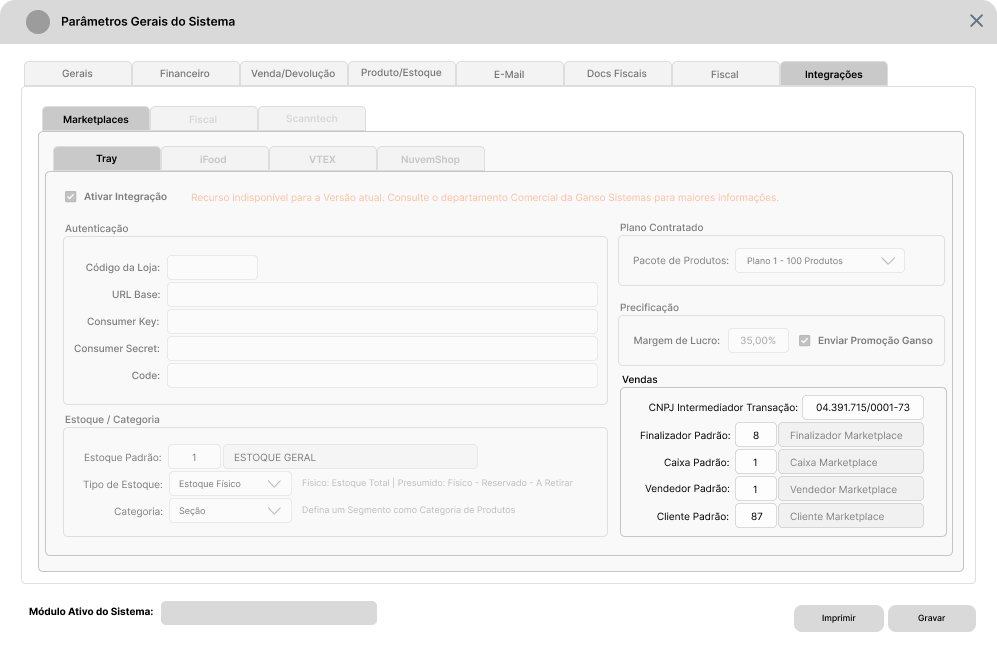
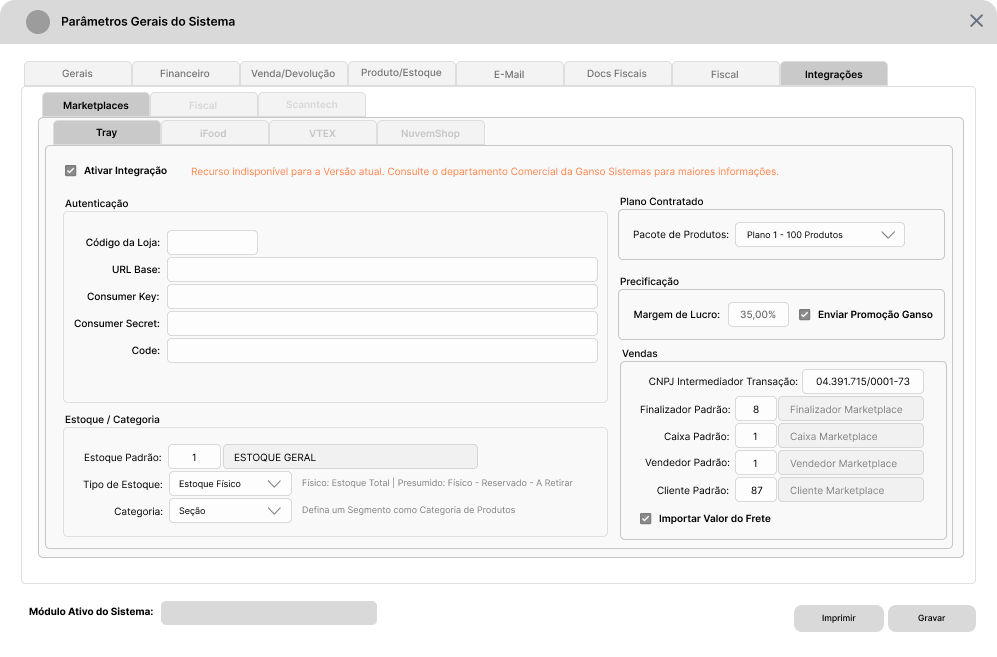
Sincronização com Bitbucket

diff --git a/Vendas.md b/Vendas.md
@@ -5,9 +5,9 @@ O presente documento é complementar à documentação de [Requisitos Iniciais](
 # Roadmap
 
 1. Implementar [parâmetros](#parâmetros) de controle relacionados à Venda.
-2. Implementar alterações na [Tela de Venda Retaguarda](#venda-retaguarda) para comportar campos de controle e identificação de Vendas realizadas na Plataforma do Marketplace.
+2. Implementar alterações na [Tela de Venda Retaguarda](#venda-retaguarda) e [Tela de Pesquisa Avançada de DAV](#consulta-de-vendas-do-marketplace) para comportar campos de controle e identificação de Vendas realizadas na Plataforma do Marketplace.
 3. Implementar alterações em [Documentos Fiscais (DF-e)](#documentos-fiscais-df-e) para adequar a emissão da NF-e e inclusão na Plataforma.
-4. Implementar alterações em [Relatórios Gerenciais](#relatórios) para incluir novos filtros para Marketplaces.
+4. Implementar alterações em [Relatórios Gerenciais](#relatórios-gerenciais) para incluir novos filtros para Marketplaces.
 
 # Siglas Utilizadas
 
@@ -19,23 +19,24 @@ O presente documento é complementar à documentação de [Requisitos Iniciais](
 
 # Parâmetros
 
-Para controle dos processos de Venda, foram levantados novos parâmetros conforme descritivo abaixo.
+Para controle dos processos de Venda, foram levantados novos parâmetros conforme descritivo abaixo. Estes parâmetros são específicos para o Integrador Tray, e devem ser incluídos na Aba **Integrações/Marketplaces**.
 
-| Elemento | Nome                            | Posição                       | Descritivo                                                                                          | Regras de Negócio                                                                                                              |
-| :------- | :------------------------------ | :---------------------------- | :-------------------------------------------------------------------------------------------------- | :----------------------------------------------------------------------------------------------------------------------------- |
-| Campo    | CNPJ Intermediador da Transação | Integrações/Marketplaces/Tray | Campo para definir o CNPJ do Intermediador/Marketplace responsável por processar a Venda.           | **Obrigatório** para emissão da NF-e conforme [NT2020.006](https://microsig.my.site.com/a0e4w00000KEmlf?btdid=a0g4w00000JDgsH) |
-| Campo    | Finalizador Padrão              | Integrações/Marketplaces/Tray | Campo para definir o Código do Finalizador Padrão para as Vendas realizadas no Marketplace          | **Obrigatório**. Permitir informar apenas Finalizador comum.                                                                   |
-| Campo    | Caixa Padrão                    | Integrações/Marketplaces/Tray | Campo para definir o Código do Caixa Padrão para as Vendas realizadas no Marketplace                | **Obrigatório**                                                                                                                |
-| Campo    | Vendedor Padrão                 | Integrações/Marketplaces/Tray | Campo para definir o Código do Colaborador/Vendedor Padrão para as Vendas realizadas no Marketplace | **Obrigatório**                                                                                                                |
-| Campo    | Cliente Padrão                  | Integrações/Marketplaces/Tray | Campo para definir o Código do Cliente Padrão para as Vendas realizadas no Marketplace              | **Obrigatório**                                                                                                                |
+| Elemento  | Nome                            | Posição                              | Descritivo                                                                                          | Regras de Negócio                                                                                                              |
+| :-------- | :------------------------------ | :----------------------------------- | :-------------------------------------------------------------------------------------------------- | :----------------------------------------------------------------------------------------------------------------------------- |
+| Campo     | CNPJ Intermediador da Transação | Integrações/Marketplaces/Tray/Vendas | Campo para definir o CNPJ do Intermediador/Marketplace responsável por processar a Venda.           | **Obrigatório** para emissão da NF-e conforme [NT2020.006](https://microsig.my.site.com/a0e4w00000KEmlf?btdid=a0g4w00000JDgsH) |
+| Campo     | Finalizador Padrão              | Integrações/Marketplaces/Tray/Vendas | Campo para definir o Código do Finalizador Padrão para as Vendas realizadas no Marketplace          | **Obrigatório**. Permitir informar apenas Finalizador comum.                                                                   |
+| Campo     | Caixa Padrão                    | Integrações/Marketplaces/Tray/Vendas | Campo para definir o Código do Caixa Padrão para as Vendas realizadas no Marketplace                | **Obrigatório**                                                                                                                |
+| Campo     | Vendedor Padrão                 | Integrações/Marketplaces/Tray/Vendas | Campo para definir o Código do Colaborador/Vendedor Padrão para as Vendas realizadas no Marketplace | **Obrigatório**                                                                                                                |
+| Campo     | Cliente Padrão                  | Integrações/Marketplaces/Tray/Vendas | Campo para definir o Código do Cliente Padrão para as Vendas realizadas no Marketplace              | **Obrigatório**                                                                                                                |
+| Parâmetro | Importar Valor do Frete         | Integrações/Marketplaces/Tray/Vendas | Parâmetro para definir se o Valor do Frete deve ser importado para o Pedido.                        | **Obrigatório**                                                                                                                |
 
-Os novos parâmetros descritos acima estão ilustrados no exemplo a seguir:
+Os novos parâmetros descritos acima podem ser visualizados no exemplo a seguir:
 
 ![Novos Parâmetros](./Parameters02.png)
 
 # Venda Retaguarda
 
-Todas as Vendas com **Pagamento concluído** geradas no Marketplace devem ser capturadas e inseridas no Sistema Ganso obedecendo os [parâmetros](#parâmetros) definidos para o Marketplace:
+Todas as Vendas com **Pagamento concluído** geradas no Marketplace devem ser capturadas e inseridas no Sistema Ganso obedecendo os [parâmetros](#parâmetros) definidos para o Marketplace. Abaixo um descritivo de recursos novos e seus relacionamentos:
 
 | Elemento | Nome                                        | Descritivo                                                              |        Campo do Retorno         | Regra de Negócio                                                                                                                                                                             |
 | :------- | :------------------------------------------ | :---------------------------------------------------------------------- | :-----------------------------: | :------------------------------------------------------------------------------------------------------------------------------------------------------------------------------------------- |
@@ -46,8 +47,9 @@ Todas as Vendas com **Pagamento concluído** geradas no Marketplace devem ser ca
 | Campo    | Data/Hora do Pedido no Marketplace          | Data e Hora de Criação do Pedido no Marketplace                         |   `Order.date` e `Order.hour`   | Não permitir alterações. Converter o formato da Data e Hora.                                                                                                                                 |
 | Campo    | Data/Hora do Pagamento no Marketplace       | Data e Hora do Pagamento do Pedido no Marketplace                       |    `Payment.Payment.created`    | Não permitir alterações. Converter o formato da Data e Hora.                                                                                                                                 |
 | Campo    | Data Estimada para Entrega                  | Data estimada para entrega, quando ocorrer                              | `Order.estimated_delivery_date` | Visível ao Usuário. Não permitir alterações. Converter o formato da Data.                                                                                                                    |
-| Campo    | Código de Rastreio/Envio                    | Código de Rastreio ou Envio gerado pelo Marketplace, quando disponível, |      `Order.sending_code`       | Não permitir alterações.                                                                                                                                                                     |
+| Campo    | Código de Rastreio/Envio                    | Código de Rastreio ou Envio gerado pelo Marketplace, quando disponível. |      `Order.sending_code`       | Permitir Alterações ou Inclusão manualmente pelo Usuário e enviar ao Pedido do Marketplace.                                                                                                  |
 | Campo    | Nome de Usuário                             | Nome do Usuário ou Identificação do Perfil do Vendedor no Marketplace   |          `User.login`           | Informação obrigatória para NF-e (Campo **idCadIntTran**). Se vazio, preencher com texto padrão 'vendedor_mkpl'. Não permitir alterações. [Ver Requisito R03 da NT2020.006](./NT2020-006.md) |
+| Função   | Atualizar Status do Pedido                  | Incluir função para atualizar o Status do Pedido no Marketplace         |                -                | Criar Método de Atualização do Pedido no Marketplace via aplicação Ganso. Ex.: "Alterar Status:" (NF-e Emitida, Aguardando Coleta do Transportador, Pedido Enviado ao Transportador e etc.)  |
 
 ## Consulta de Vendas do Marketplace
 
@@ -55,21 +57,22 @@ De modo a Simplificar a gestão dos Pedidos realizados no Marketplace sincroniza
 
 | #   | Descritivo                                                                                        | Regra de Negócio                                                                                                                                               |
 | :-- | :------------------------------------------------------------------------------------------------ | :------------------------------------------------------------------------------------------------------------------------------------------------------------- |
-| R01 | Incluir filtro **"Somente Vendas Realizadas pelo Marketplace"**                                   | Listar apenas Pedidos gerados pela Sincronização com Marketplace. Utilizar coloração distinta para destaque das informações, como ocorre com as Vendas Mobile. |
-| R02 | Incluir **Código do Pedido do Marketplace** em coluna nova ou no campo **Identificação da Venda** | Exibir a informação para que o Usuário possa identificar no Marketplace o Pedido Realizado.                                                                    |
+| R01 | Incluir filtro **"Somente Pedidos Realizados pelo Marketplace"**                                  | Listar apenas Pedidos gerados pela Sincronização com Marketplace. Utilizar coloração distinta para destaque das informações, como ocorre com as Vendas Mobile. |
+| R02 | Incluir filtro **"Somente Pedidos sem Documento Fiscal"**                                         | Listar apenas Pedidos gerados pela Sincronização com Marketplace e que ainda não possuem documento fiscal vinculado.                                           |
+| R03 | Incluir **Código do Pedido do Marketplace** em coluna nova ou no campo **Identificação da Venda** | Exibir a informação para que o Usuário possa identificar no Marketplace o Pedido Realizado.                                                                    |
 
 ## Relacionamento de Dados - Venda Retaguarda
 
 Para as demais informações do Pedido, há campos no Sistema Ganso que devem ser utilizados (tanto para o Pedido quanto para os Itens do Pedido) conforme os relacionamentos abaixo.
 
-| Ganso               | Tray                   | Tipo Retorno | Descritivo                                    | Regra de Negócio                            |
-| :------------------ | :--------------------- | :----------: | :-------------------------------------------- | :------------------------------------------ |
-| `desconto_valor`    | `Order.discount`       |  `decimal`   | Valor do Desconto do Pedido                   | Não permitir alterações.                    |
-| `valor_frete`       | `Order.shipment_value` |  `decimal`   | Valor do Frete quando contratado pelo Cliente | Não permitir alterações.                    |
-| `obs_nf`            | `Order.customer_note`  |   `string`   | Observação informada pelo Cliente             | Não permitir alterações.                    |
-| `orcamento_bruto`   | `Order.partial_total`  |  `decimal`   | Valor Bruto do Pedido                         | Não permitir alterações.                    |
-| `orcamento_liquido` | `Order.total`          |  `decimal`   | Valor Líquido do Pedido                       | Não permitir alterações.                    |
-| `identificacao`     | -                      |   `string`   | Identificação de Venda no Marketplace         | Texto Fixo 'MKPL'. Não permitir alterações. |
+| Ganso               | Tray                   | Tipo Retorno | Descritivo                                    | Regra de Negócio                                                                                        |
+| :------------------ | :--------------------- | :----------: | :-------------------------------------------- | :------------------------------------------------------------------------------------------------------ |
+| `desconto_valor`    | `Order.discount`       |  `decimal`   | Valor do Desconto do Pedido                   | Não permitir alterações.                                                                                |
+| `valor_frete`       | `Order.shipment_value` |  `decimal`   | Valor do Frete quando contratado pelo Cliente | Não permitir alterações.                                                                                |
+| `obs_nf`            | `Order.customer_note`  |   `string`   | Observação informada pelo Cliente             | Não permitir alterações.                                                                                |
+| `orcamento_bruto`   | `Order.partial_total`  |  `decimal`   | Valor Bruto do Pedido                         | Não permitir alterações.                                                                                |
+| `orcamento_liquido` | `Order.total`          |  `decimal`   | Valor Líquido do Pedido                       | Não permitir alterações.                                                                                |
+| `identificacao`     | -                      |   `string`   | Identificação de Venda no Marketplace         | Utilizar para informar o Código do Pedido do Marketplace ou Texto Fixo 'MKPL'. Não permitir alterações. |
 
 ## Relacionamento de Dados - Itens da Venda Retaguarda
 
@@ -86,25 +89,24 @@ Para as demais informações do Pedido, há campos no Sistema Ganso que devem se
 
 ## Regras de Negócio - Venda Retaguarda
 
-| #     | Descritivo                                                                                                                                                                   | Tratativas                                                                                                                                                                                           |
-| :---- | :--------------------------------------------------------------------------------------------------------------------------------------------------------------------------- | :--------------------------------------------------------------------------------------------------------------------------------------------------------------------------------------------------- |
-| RNV01 | Gerar DAV-Pedido Fechado para Vendas Sincronizadas do Marketplace                                                                                                            | Por Padrão, para todas as Vendas geradas através do Marketplace gerar o Tipo DAV-Pedido com Status Fechado.                                                                                          |
-| RNV02 | Gravar Código do Vendedor Padrão em Vendas do Marketplace                                                                                                                    | Utilizar o Código de Vendedor Padrão informado nos [parâmetros](#parâmetros) de vendas do Marketplace.                                                                                               |
-| RNV03 | Gravar Código do Finalizador Padrão em Vendas do Marketplace                                                                                                                 | Utilizar o Código do Finalizador Padrão informado nos [parâmetros](#parâmetros) de vendas do Marketplace.                                                                                            |
-| RNV04 | Gravar Código do Cliente Padrão em Vendas do Marketplace                                                                                                                     | Utilizar o Código do Cliente Padrão informado nos [parâmetros](#parâmetros) de vendas do Marketplace.                                                                                                |
-| RNV05 | Incluir na Rotina `<F10> - Preparar NF` ou `<F10> - Carregar dados da NF` leitura das informações do Cliente e Endereço da Tabela de Relacionamento do Pedido no Marketplace | Ao gerar a NF, as informações do Cliente e Endereço de Entrega deverão ser **obrigatoriamente** carregadas da tabela onde estão armazenadas as informações do Pedido Sincronizado com o Marketplace. |
+| #     | Descritivo                                                                                                                                                                       | Tratativas                                                                                                                                                                                           |
+| :---- | :------------------------------------------------------------------------------------------------------------------------------------------------------------------------------- | :--------------------------------------------------------------------------------------------------------------------------------------------------------------------------------------------------- |
+| RNV01 | Sempre Gerar DAV-Pedido Fechado para Vendas Sincronizadas do Marketplace                                                                                                         | Por Padrão, para todas as Vendas geradas através do Marketplace gerar o Tipo DAV-Pedido com Status Fechado.                                                                                          |
+| RNV02 | Sempre Gravar Código do Vendedor Padrão em Vendas do Marketplace                                                                                                                 | Utilizar o Código de Vendedor Padrão informado nos [parâmetros](#parâmetros) de vendas do Marketplace.                                                                                               |
+| RNV03 | Gravar Código do Finalizador Padrão em Vendas do Marketplace                                                                                                                     | Utilizar o Código do Finalizador Padrão informado nos [parâmetros](#parâmetros) de vendas do Marketplace.                                                                                            |
+| RNV04 | Gravar Código do Cliente Padrão em Vendas do Marketplace                                                                                                                         | Utilizar o Código do Cliente Padrão informado nos [parâmetros](#parâmetros) de vendas do Marketplace.                                                                                                |
+| RNV05 | Incluir na Rotina `<F10> - Preparar NF` ou `<F10> - Carregar dados da NF` leitura das informações do Cliente e Endereço da **Tabela de Relacionamento do Pedido** no Marketplace | Ao gerar a NF, as informações do Cliente e Endereço de Entrega deverão ser **obrigatoriamente** carregadas da tabela onde estão armazenadas as informações do Pedido Sincronizado com o Marketplace. |
+| RNV06 | Enviar o Código de Rastreio, XML da NF-e e DANFE da NF-e ao Marketplace                                                                                                          | Quando usuário incluir um Código de Rastreio no Pedido, enviar a informação junto com o XML e DANFE da NF-e.                                                                                         |
 
-# Cadastro de Clientes
+# Informações do Cliente do Pedido
 
-A API Tray retorna os dados principais do Cliente no detalhamento do Pedido Completo no Objeto `Customer` e `CustomerAddresses`.
-
-## Relacionamento de Dados - Clientes
+A API Tray retorna os dados principais do Cliente no detalhamento do Pedido Completo nos Objetos `Customer` e `CustomerAddresses`. Abaixo o relacionamento de informações comparando-as com campos da Tabela Cliente do Sistema Ganso.
 
 | Ganso           | Tray                         | Tipo Retorno | Descritivo                  | Regra de Negócio                                                                                                                    |
 | :-------------- | :--------------------------- | :----------: | :-------------------------- | :---------------------------------------------------------------------------------------------------------------------------------- |
 | `nome`          | `Customer.name`              |   `string`   | Nome                        | Observar limite de tamanho no Sistema Ganso: 50 caracteres. Se maior, truncar a informação.                                         |
 | `rg`            | `Customer.rg`                |   `string`   | RG                          | Observar limite de tamanho no Sistema Ganso: 15 caracteres. Se maior, truncar a informação. Eliminar a máscara do campo de retorno. |
-| `cpf`           | `Customer.cpf`               |   `string`   | CPF                         | -                                                                                                                                   |
+| `cpf`           | `Customer.cpf`               |   `string`   | CPF                         | Tamanho 11 caracteres, sem máscara no retorno.                                                                                      |
 | `telefone`      | `Customer.phone`             |   `string`   | Telefone Fixo               | Observar limite de tamanho no Sistema Ganso: 13 caracteres. Se maior, truncar a informação.                                         |
 | `celular`       | `Customer.cellphone`         |   `string`   | Telefone Celular            | Observar limite de tamanho no Sistema Ganso: 13 caracteres. Se maior, truncar a informação.                                         |
 | `nascimento`    | `Customer.birth_date`        |    `date`    | Data de Aniversário         | Converter o Formato para 'DDMMAAAA'. A API retorna no Formato 'AAAADDMM'.                                                           |
@@ -122,7 +124,7 @@ A API Tray retorna os dados principais do Cliente no detalhamento do Pedido Comp
 | `complemento`   | `Customer.complement`        |   `string`   | Complemento Principal       | Observar limite de tamanho no Sistema Ganso: 60 caracteres.                                                                         |
 | `bairro`        | `Customer.neighborhood`      |   `string`   | Bairro Principal            | Observar limite de tamanho no Sistema Ganso: 25 caracteres.                                                                         |
 | `cidade`        | `Customer.city`              |   `string`   | Cidade Princial             | Nome da Cidade informada.                                                                                                           |
-| `uf`            | `Customer.state`             |   `string`   | Sigla do Estado             | Informação Complementar da Cidade. Auxiliará identificação do Código da Cidade                                                      |
+| `uf`            | `Customer.state`             |   `string`   | Sigla do Estado             | UF da Cidade.                                                                                                                       |
 | `pais`          | `Customer.country`           |   `string`   | País                        | Sigla do País ou Nome do País                                                                                                       |
 
 # Documentos Fiscais (DF-e)
@@ -131,13 +133,19 @@ A API Tray retorna os dados principais do Cliente no detalhamento do Pedido Comp
 
 ## Regras de Negócio - DF-e
 
-| #     | Descritivo                                           | Tratativas                                                                                                                                                                                                                                                                                                      |
-| :---- | :--------------------------------------------------- | :-------------------------------------------------------------------------------------------------------------------------------------------------------------------------------------------------------------------------------------------------------------------------------------------------------------- |
-| RND01 | Definir Tipo de Atendimento (Indicativo de Presença) | Se venda por Marketplace, definir Indicativo de Presença como 2 = Operação não presencial, pela Internet.                                                                                                                                                                                                       |
-| RND02 | Definir Consumidor Final                             | Se `Customer.type=0` (Pessoa Física) definir como **"Sim"**. Se `Customer.type=1` (Pessoa Jurídica) definir como **"Não"**.                                                                                                                                                                                     |
-| RND03 | Definir Contribuinte ICMS                            | Se `Customer.type=0` (Pessoa Física) definir como **"Não"**. Se `Customer.type=1` e `Customer.state_inscription<>'ISENTO'` (Pessoa Jurídica não Contribuinte) definir como **"Sim"**. Se `Customer.type=1` e `Customer.state_inscription='ISENTO'` (Pessoa Jurídica não Contribuinte) definir como **"Isento"** |
+| #     | Descritivo                                                | Tratativas                                                                                                                                                                                                                                                                                                      |
+| :---- | :-------------------------------------------------------- | :-------------------------------------------------------------------------------------------------------------------------------------------------------------------------------------------------------------------------------------------------------------------------------------------------------------- |
+| RND01 | Definir Tipo de Atendimento (Indicativo de Presença)      | Se venda por Marketplace, definir Indicativo de Presença como 2 = Operação não presencial, pela Internet.                                                                                                                                                                                                       |
+| RND02 | Definir Consumidor Final                                  | Se `Customer.type=0` (Pessoa Física) definir como **"Sim"**. Se `Customer.type=1` (Pessoa Jurídica) definir como **"Não"**.                                                                                                                                                                                     |
+| RND03 | Definir Contribuinte ICMS                                 | Se `Customer.type=0` (Pessoa Física) definir como **"Não"**. Se `Customer.type=1` e `Customer.state_inscription<>'ISENTO'` (Pessoa Jurídica não Contribuinte) definir como **"Sim"**. Se `Customer.type=1` e `Customer.state_inscription='ISENTO'` (Pessoa Jurídica não Contribuinte) definir como **"Isento"** |
+| RND04 | Definir Dados de Endereço e Local de Entrega do Cliente   | Preencher os campos do **Endereço** e **Endereço de Entrega** da aba **Local de Retirada/Entrega** com os dados de Endereço do Pedido.                                                                                                                                                                          |
+| RND05 | Relacionar o XML da NF-e e enviar para API do Marketplace | Após transmissão com sucesso da NF-e (NF-e Autorizada na SEFAZ), vincular ao Pedido o Arquivo XML, Chave de Acesso e demais informações relacionadas e enviar à Plataforma do Marketplace.                                                                                                                      |
 
-# Relatórios
+# Fluxo Geral da Integração
+
+![Fluxo da Leitura do Pedido](./Flow01-Documents.png)
+
+# Relatórios Gerenciais
 
 Além das alterações nas rotinas de Vendas, é necessário incluir novos filtros nos **Relatórios** de Gestão do Sistema para melhorar a experiência do Usuário. A tabela a seguir descreve os relatórios e recursos necessários.
 
@@ -158,5 +166,4 @@ Além das alterações nas rotinas de Vendas, é necessário incluir novos filtr
 
 - [Tray Developers](https://developers.tray.com.br/)
 - [Nota Técnica - NF-e](https://developermercado.ifood.com.br/page/nt-2020006)
-- [Tiny ERP](https://ajuda.tiny.com.br/hc/pt-br/articles/8289956453268-Integra%C3%A7%C3%A3o-Tiny-com-o-iFood-Mercado)
-- [Consumer ERP](https://ajuda.programaconsumer.com.br/como-integrar-o-programa-consumer-ao-ifood/)
+- [Tiny ERP](https://ajuda.tiny.com.br/hc/pt-br/articles/4415632516372-Integra%C3%A7%C3%A3o-Tiny-com-a-Tray?_ga=2.46873831.1171586371.1677500749-1566933678.1677500749)
